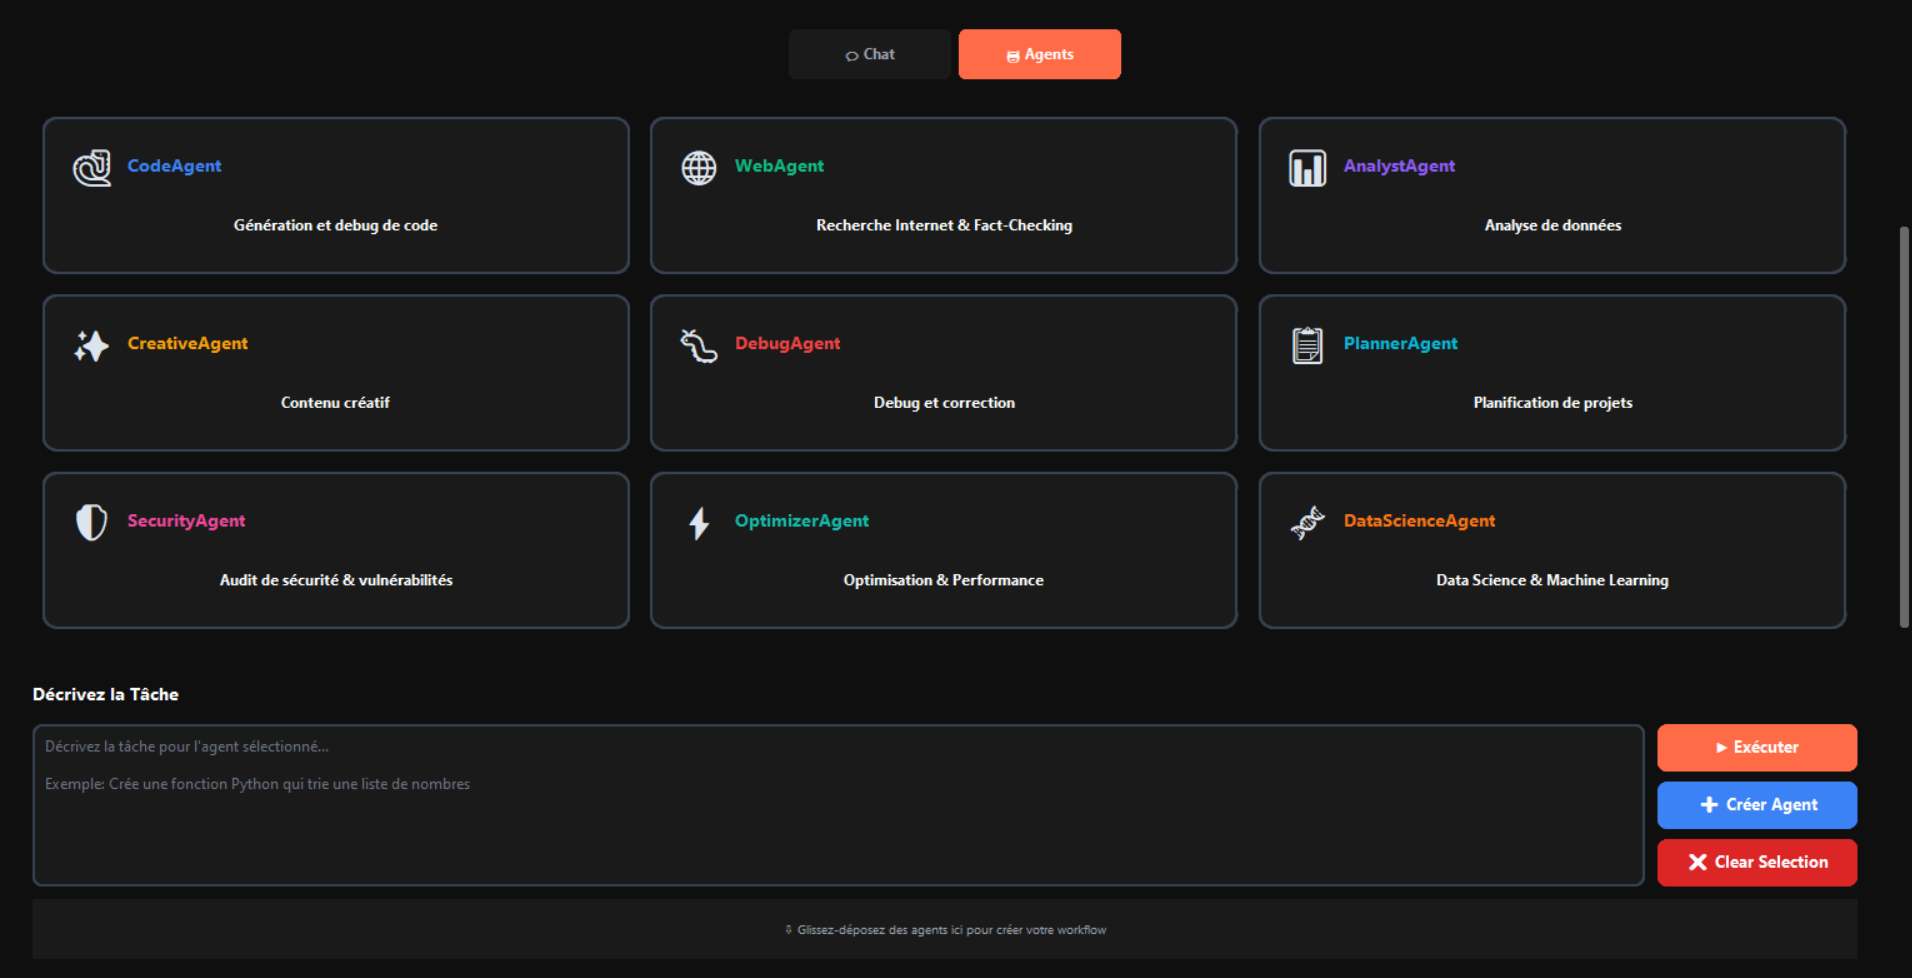
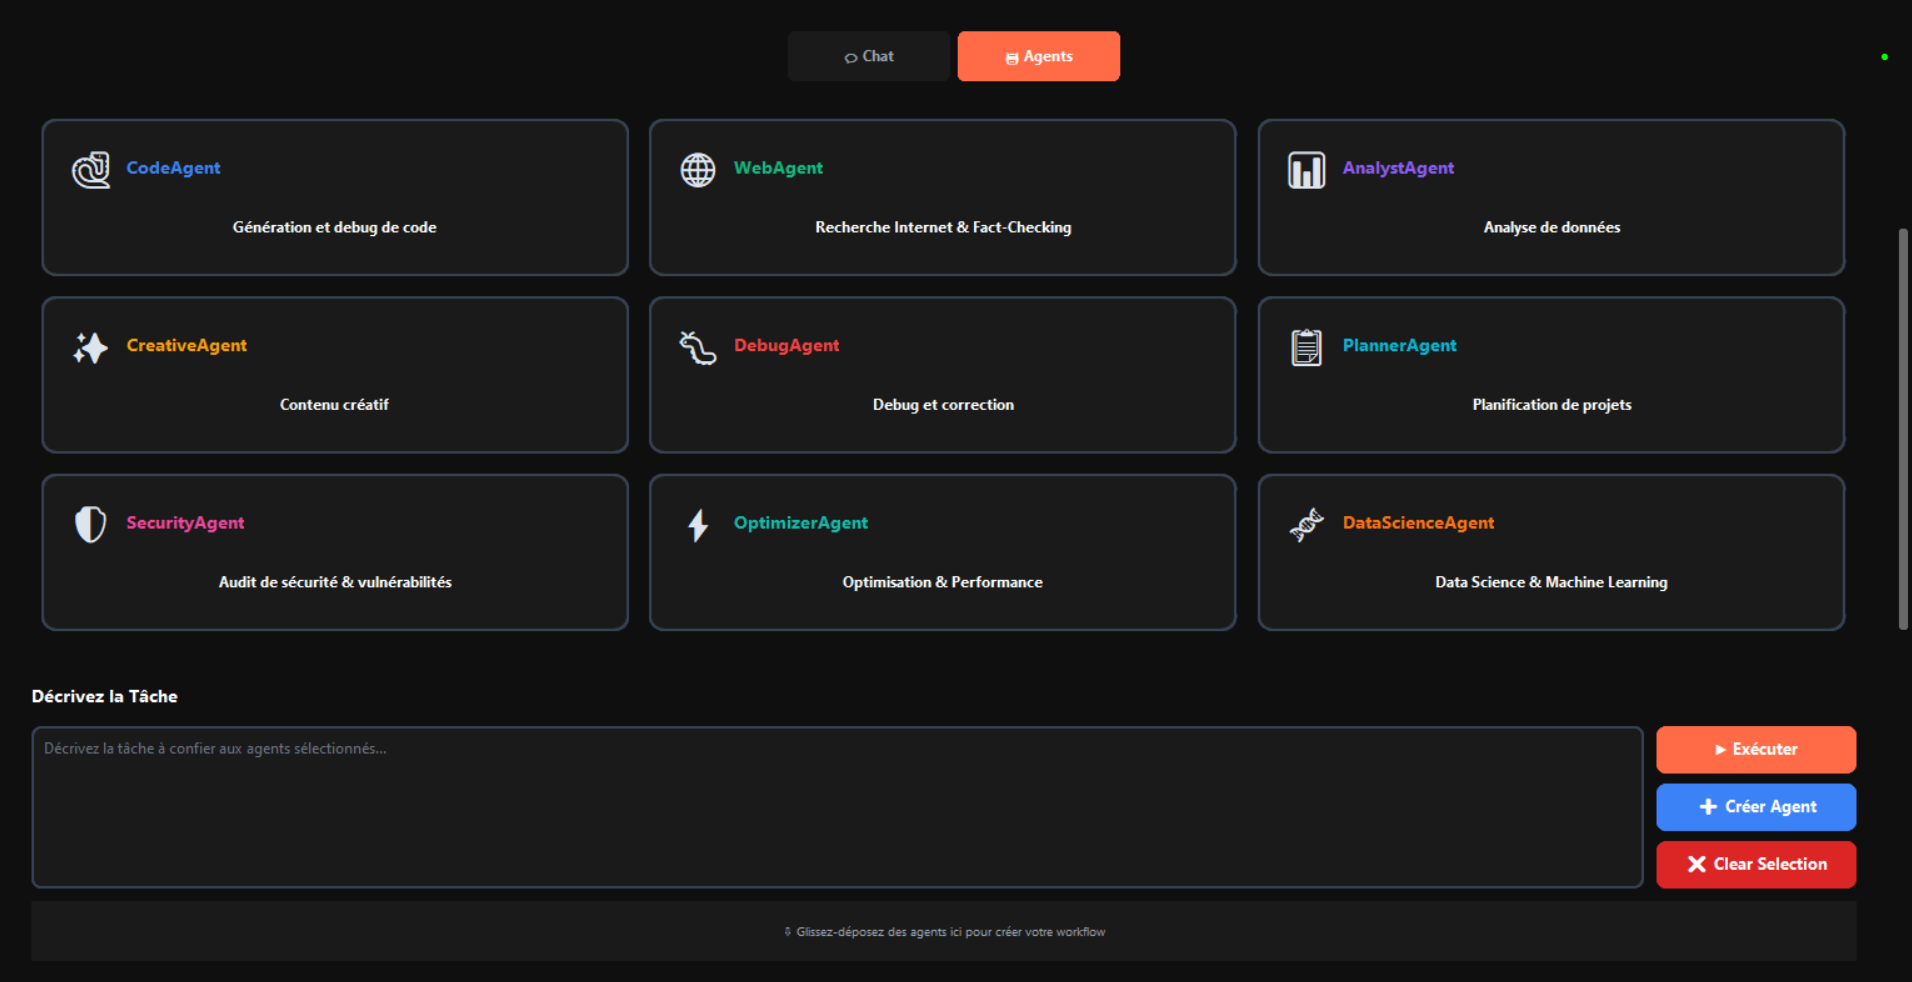
refactor: update placeholder text in agents interface and enhance GUI structure

diff --git a/interfaces/gui/base.py b/interfaces/gui/base.py
@@ -199,8 +199,11 @@ class BaseGUI:
         self._home_screen = None
         self._home_screen_active = False
         self._home_input = None
+        self._home_input_wrapper = None
         self._conv_container = None
         self._chat_content_frame = None
+        # Mode thinking (widget raisonnement)
+        self._thinking_mode_active = False
         self._input_container = None
 
         # Configuration de l'interface
@@ -1869,7 +1872,6 @@ class BaseGUI:
             bg = self.colors.get("bg_secondary", "#1e1e1e")
             fg = self.colors.get("text_primary", "#ffffff")
             accent = self.colors.get("accent", "#ff6b47")
-            hover_bg = self.colors.get("button_hover", "#2e2e2e")
             font = ("Segoe UI", 11)
 
             popup = tk.Toplevel(self.root)
@@ -1913,7 +1915,7 @@ class BaseGUI:
             popup.geometry(f"+{bx}+{by}")
 
             # Fermer si on clique ailleurs
-            def _on_focus_out(e):
+            def _on_focus_out(_):
                 # Vérifier que le focus ne va pas vers le popup lui-même
                 self.root.after(50, lambda: _close_popup(popup) if _popup_ref[0] is popup else None)
 

diff --git a/interfaces/agents_interface.py b/interfaces/agents_interface.py
@@ -636,7 +636,7 @@ class AgentsInterface:
 
         # Placeholder
         self._set_placeholder(
-            "Décrivez la tâche pour l'agent sélectionné...\n\nExemple: Crée une fonction Python qui trie une liste de nombres"
+            "Décrivez la tâche à confier aux agents sélectionnés...\n"
         )
 
         # Frame pour les boutons (à droite, étiré pour s'aligner avec la zone de texte)

diff --git a/README.md b/README.md
@@ -161,7 +161,6 @@ my_ai/
 │   ├── data_preprocessing.py            # Prétraitement des données
 │   ├── mcp_client.py                    # Client Model Context Protocol (Outils)
 │   ├── rlhf_manager.py                  # RLHF intégré (feedback automatique)
-│   ├── rlhf.py                          # RLHF CLI (legacy)
 │   ├── training_manager.py              # Training Manager moderne (pipeline complet)
 │   └── training_pipeline.py             # Pipeline d'entraînement local
 ├── data/                                # Données d'enrichissement FAQ
